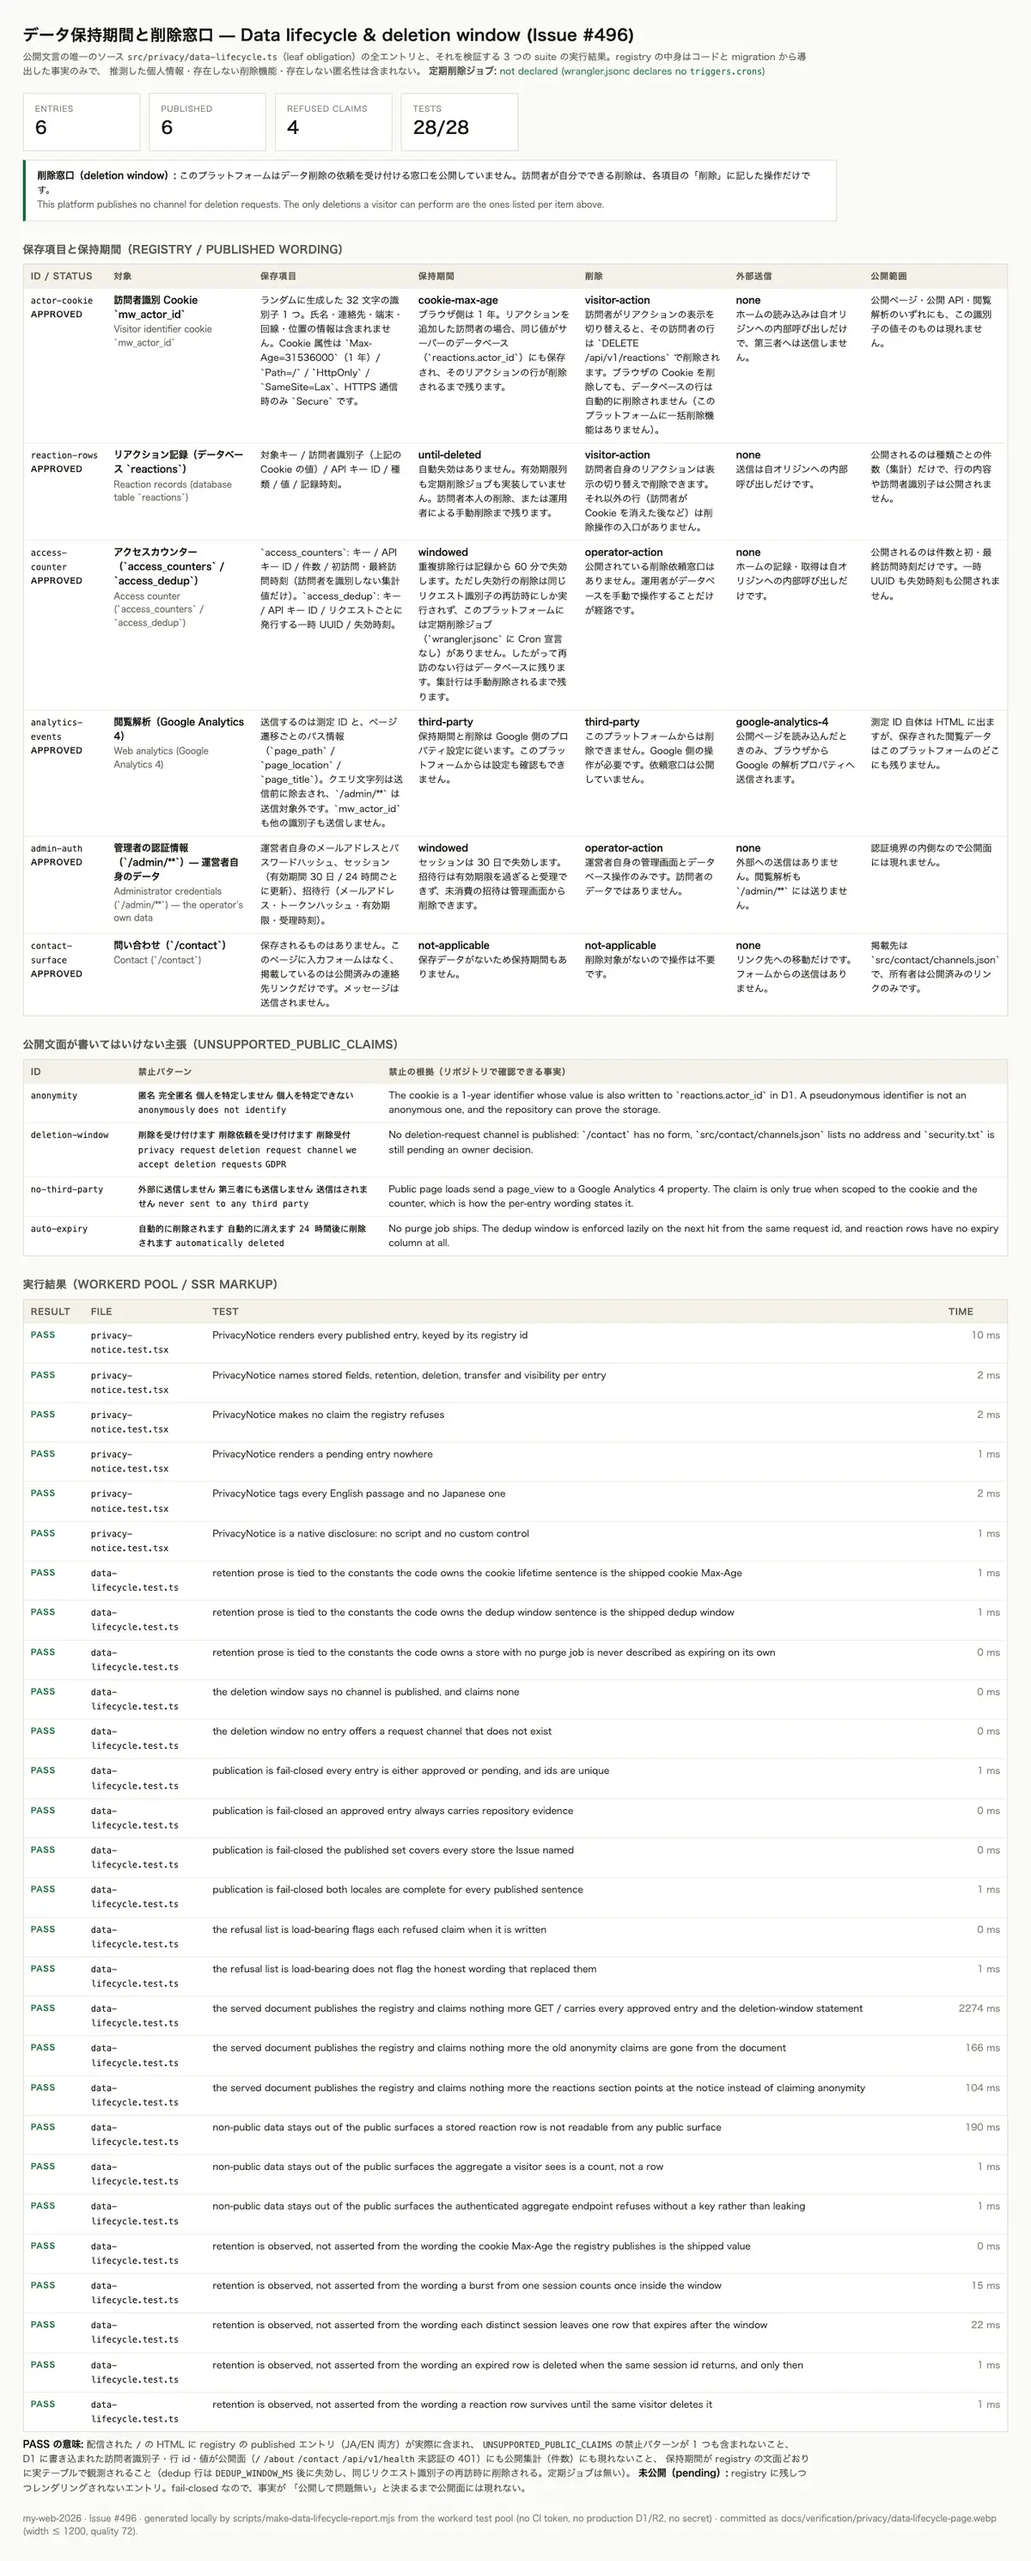
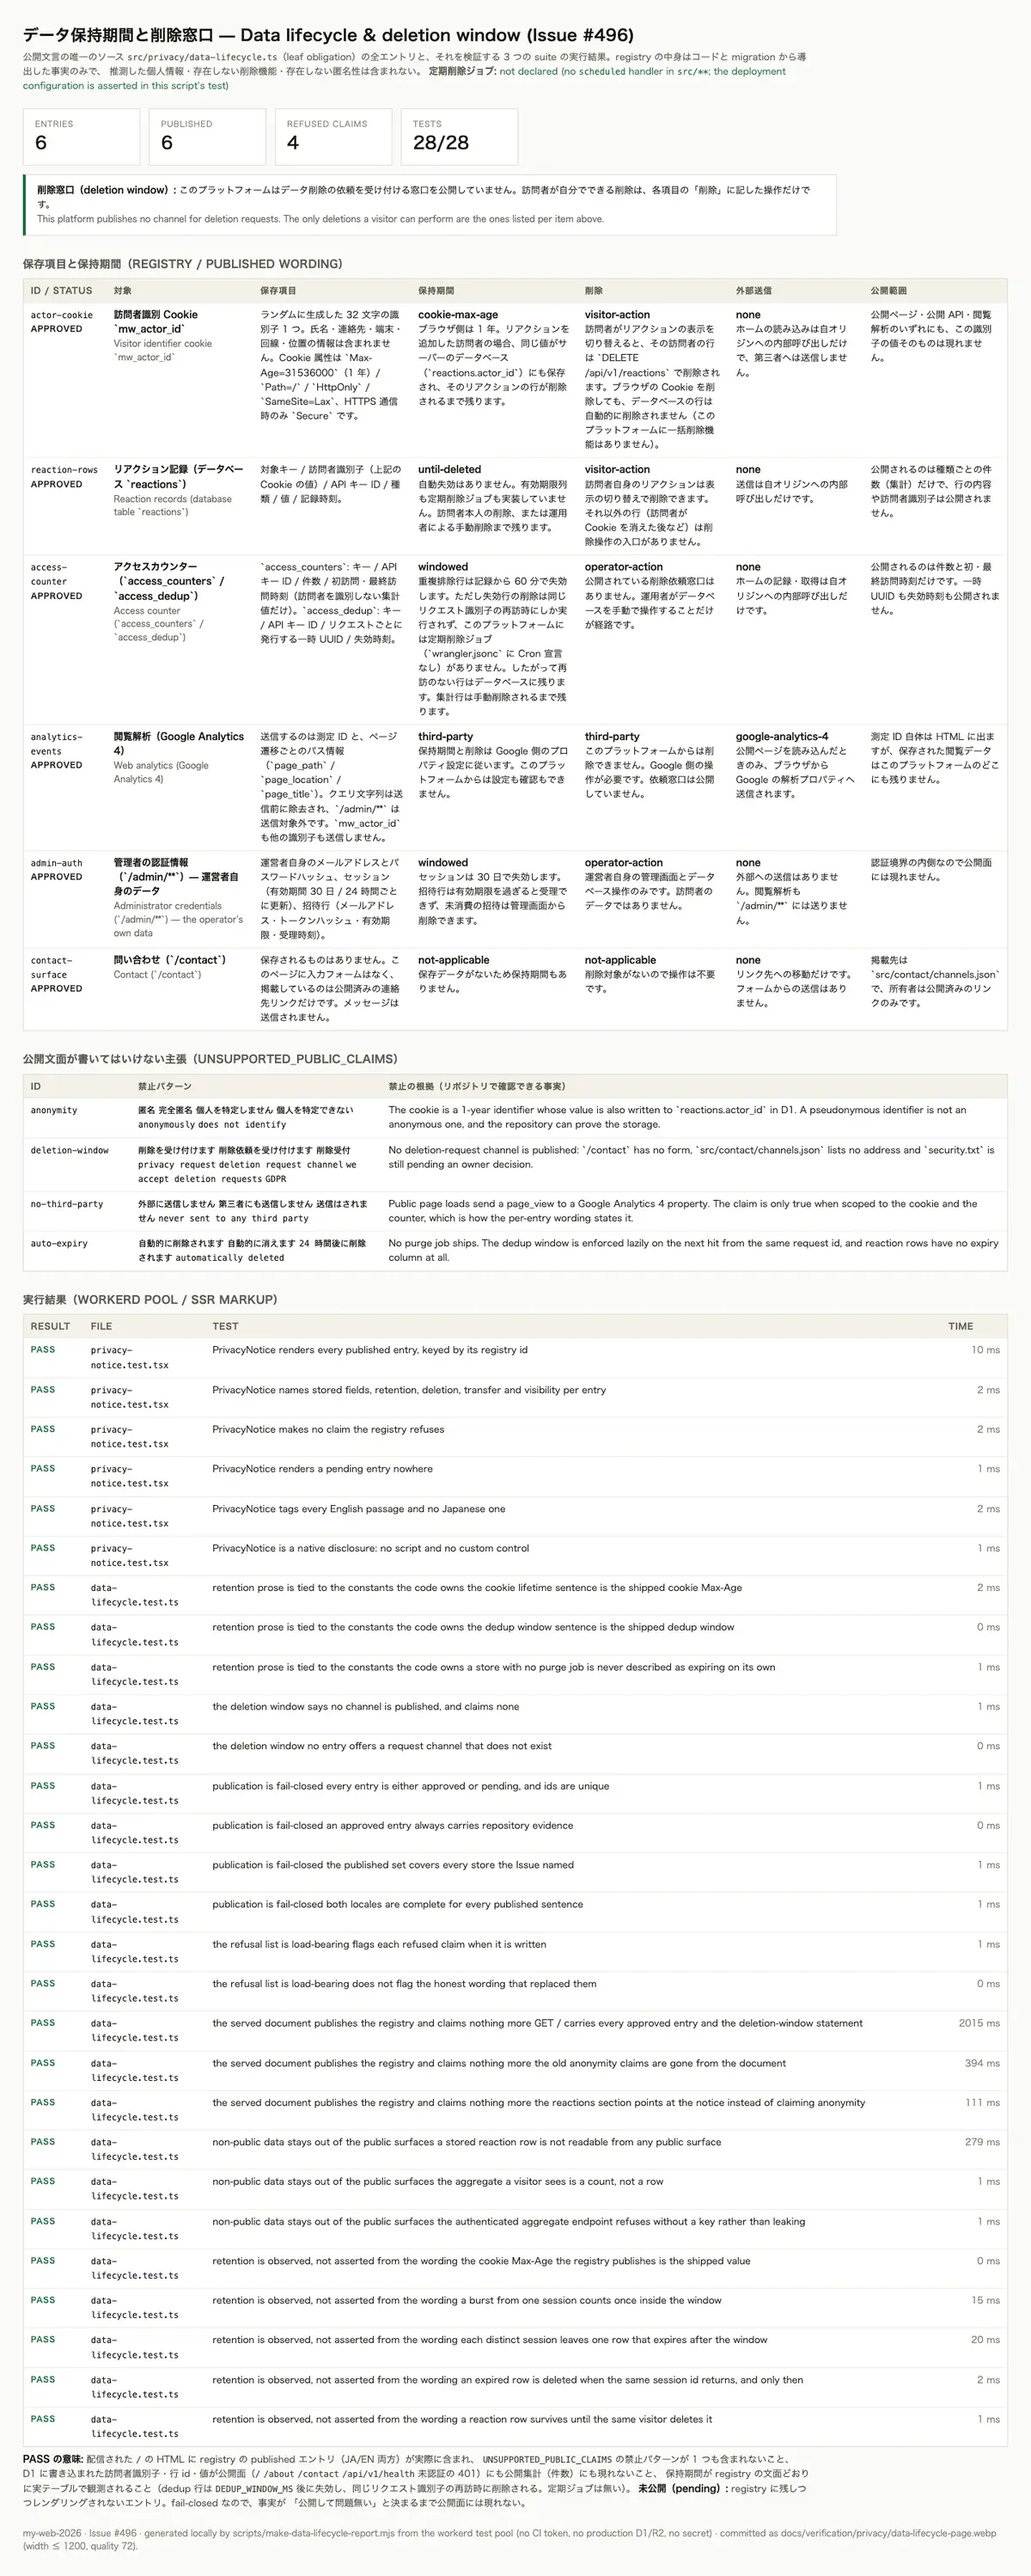
fix(privacy): read the no-purge-job verdict from the Worker source instead of the Wrangler config (#496)
The runtime script must not name wrangler.jsonc (pnpm run
wrangler:independence:check), so the report now scans src/** for a
scheduled handler with comments stripped, and the Cron declaration is
asserted in the script test, which the same gate exempts.

diff --git a/docs/verification/privacy/README.md b/docs/verification/privacy/README.md
@@ -17,7 +17,7 @@ exist, no retention number nobody can read off a table.
   | --- | --- |
   | 公開文面（配信された `/` の HTML） | `src/privacy/data-lifecycle.ts` の `approved` エントリが保存項目 / 保持期間 / 削除 / 外部送信 / 公開範囲の 5 項目を JA・EN 両方を含む形でレンダリングする。`pending` は現れない |
   | 拒否リスト | `UNSUPPORTED_PUBLIC_CLAIMS` の禁止パターン（匿名性・削除受付窓口・無条件の「送信なし」・自動削除）が配信 HTML に 1 つも含まれない。旧文言の「匿名」「個人を特定しません」「This site uses an anonymous」「anonymously」を個別に assert する |
-  | 保持期間（実テーブル） | `access_dedup.expires_at` = 記録時刻 + `DEDUP_WINDOW_MS`。同一リクエスト識別子の再訪時に失効行が削除され、同じセッションの 25 連打は 1 加算、25 個の別セッションは 25 行を残す。定期削除ジョブは無い（`wrangler.jsonc` に `triggers.crons` 宣言なし） |
+  | 保持期間（実テーブル） | `access_dedup.expires_at` = 記録時刻 + `DEDUP_WINDOW_MS`。同一リクエスト識別子の再訪時に失効行が削除され、同じセッションの 25 連打は 1 加算、25 個の別セッションは 25 行を残す。定期削除ジョブは無い（`src/**` に `scheduled` ハンドラが無く、宣言設定にも Cron が無い） |
   | 非公開データ | D1 に書いた訪問者識別子・行 id・値が `/` `/about` `/contact` `/api/v1/health`、未認証の 401 応答、公開集計（`kind`/`value`/`count` のみ）のいずれにも現れない |
   | 削除経路 | 訪問者本人の DELETE のみが自分の行を削除し、他者の識別子では削除できない |
 
@@ -46,9 +46,9 @@ exist, no retention number nobody can read off a table.
   2. 削除依頼窓口を owner が公開することにしたとき、`DELETION_REQUEST_CHANNEL` を
      「未公開」から公開側へ移し、`security.txt`（Issue #468）の contact 承認と
      同時に行う。片方だけの変更は、窓口の無いことを将进一步に公開することになる。
-  3. 定期削除ジョブ（`wrangler.jsonc` の `triggers.crons`）を採用したら、
-     `access-counter` の保持期間文言と `detectScheduledPurge()` の verdict を同時に
-     変える。レポートの verdict は設定を読み取るので、片方だけの変更は崩れる。
+  3. 定期削除ジョブを採用したら、`access-counter` の保持期間文言と
+     `findScheduledHandlers()` の verdict（`src/**` 走査）とCron 宣言の assertion を
+     同時に変える。片方だけの変更は verdict の表示と registry が矛盾する。
 
 ## `location-private-fallback.webp`
 
